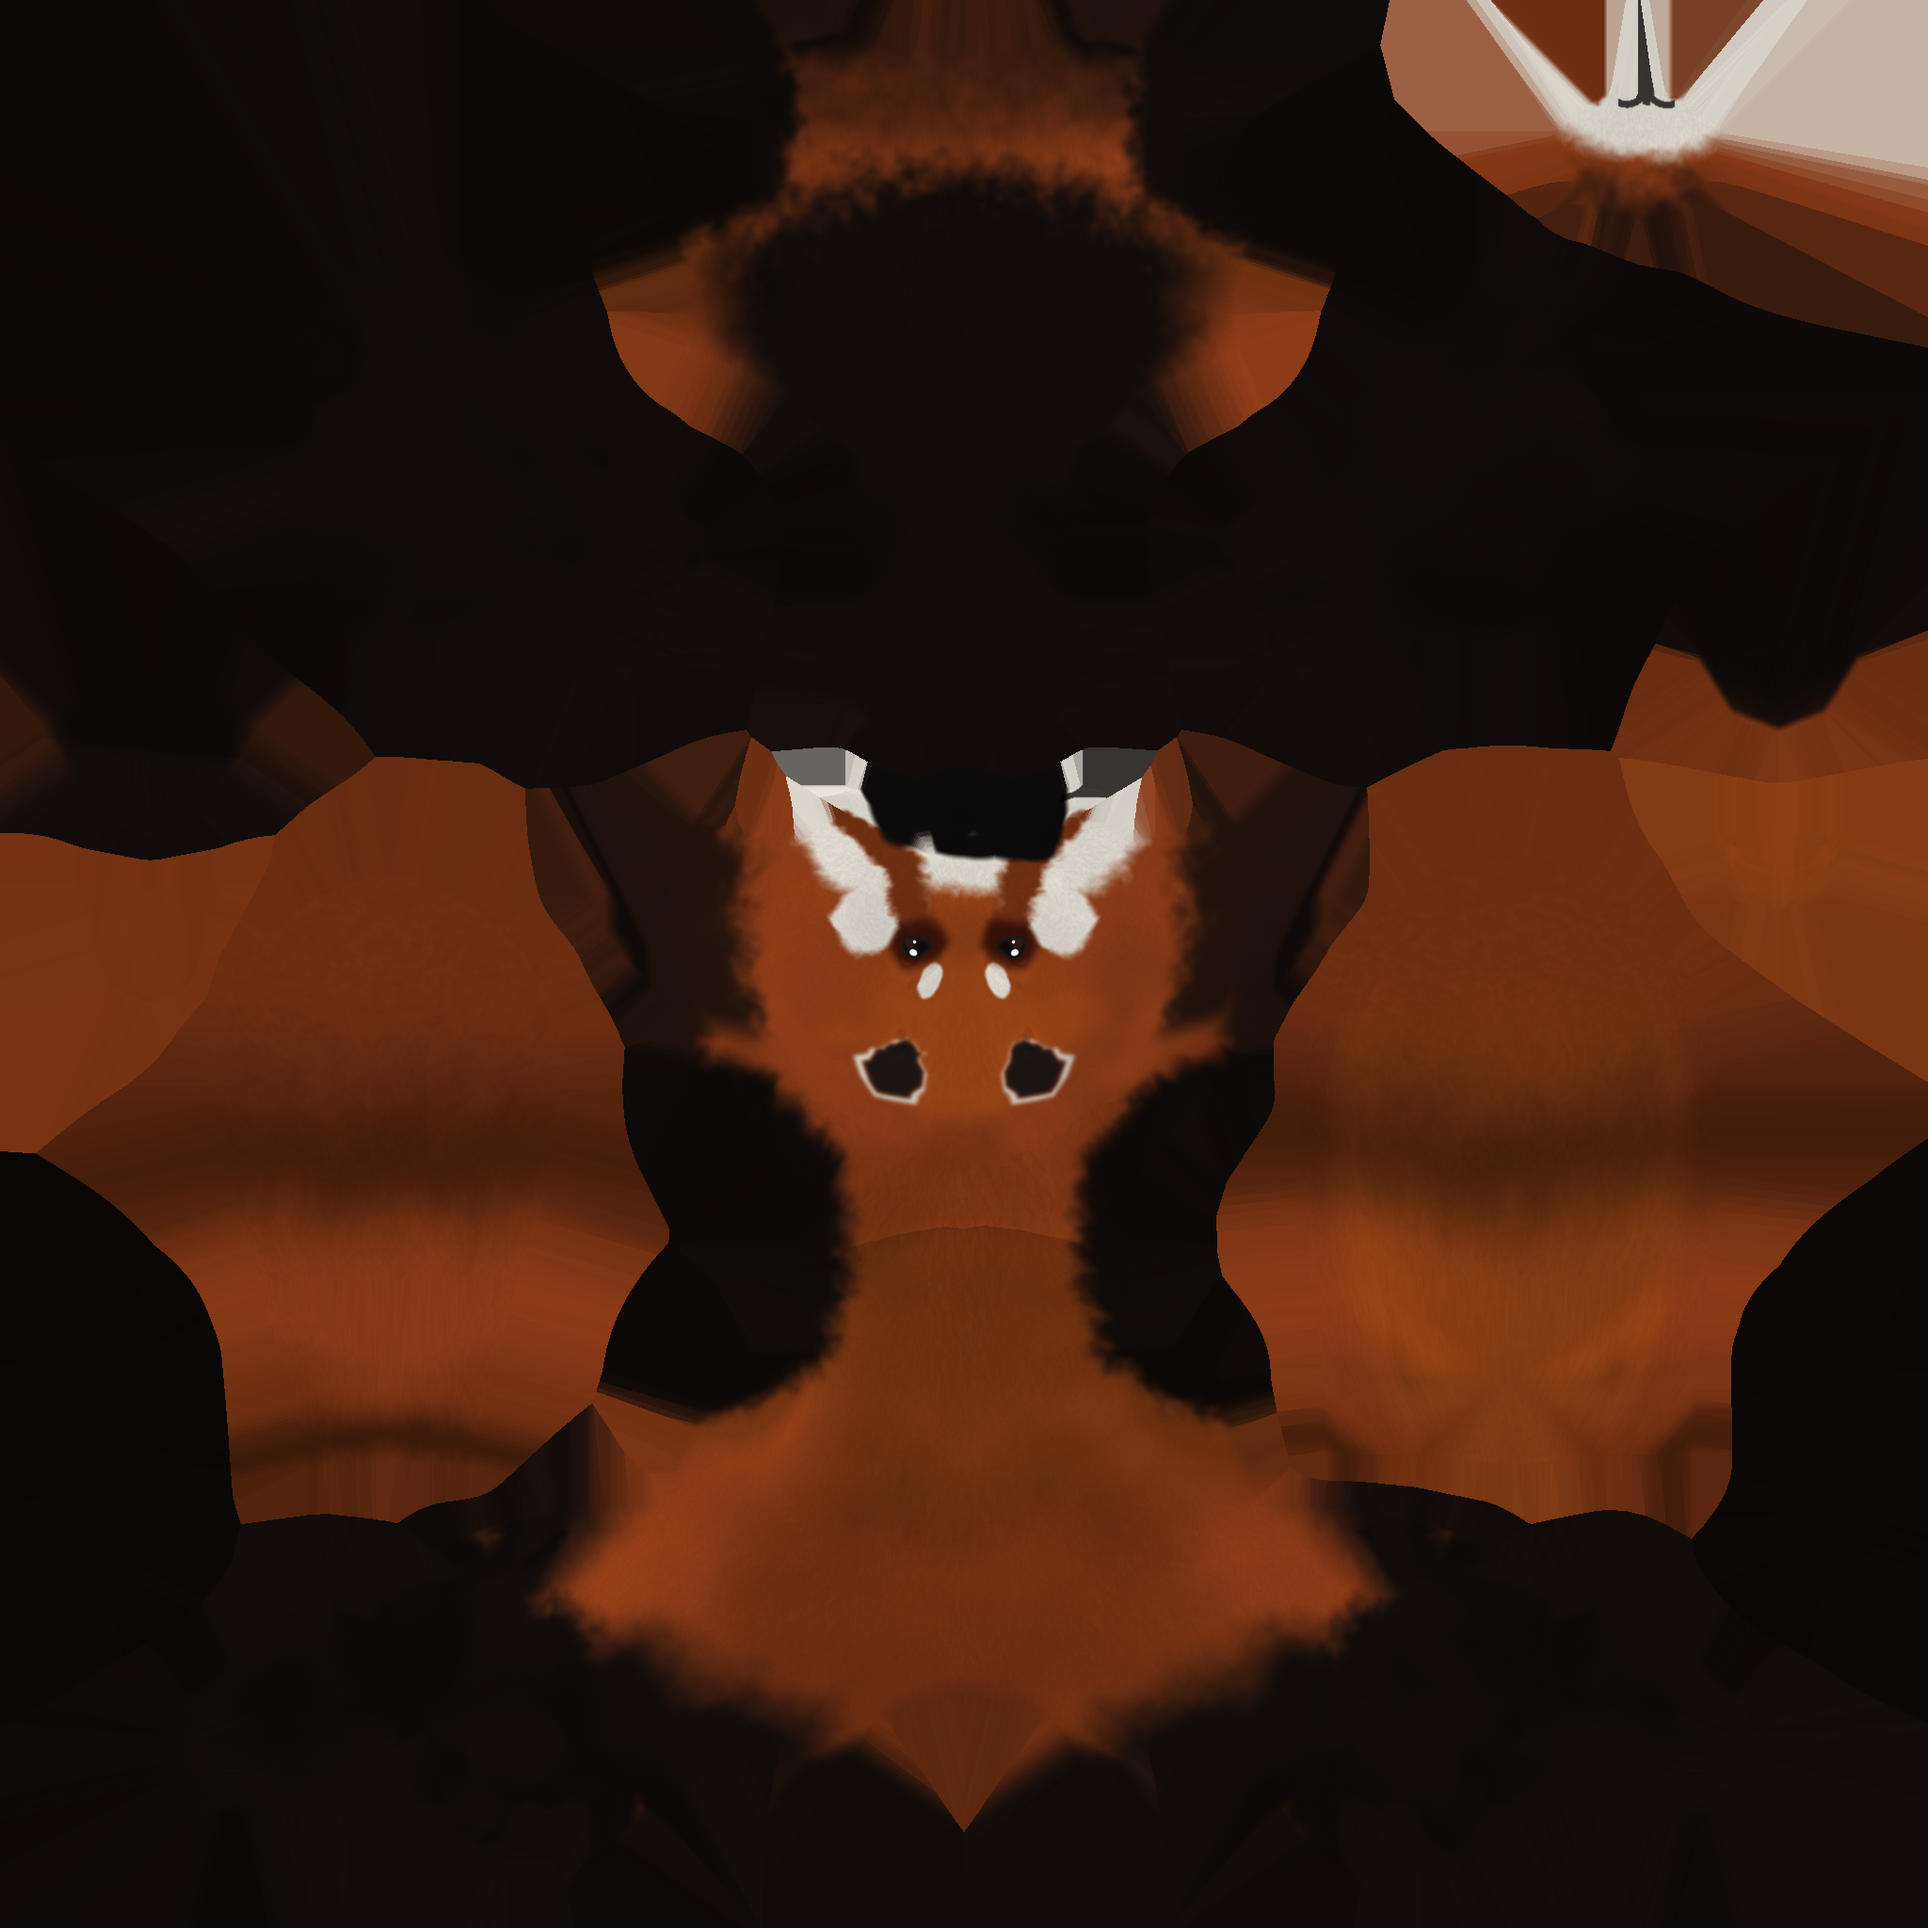
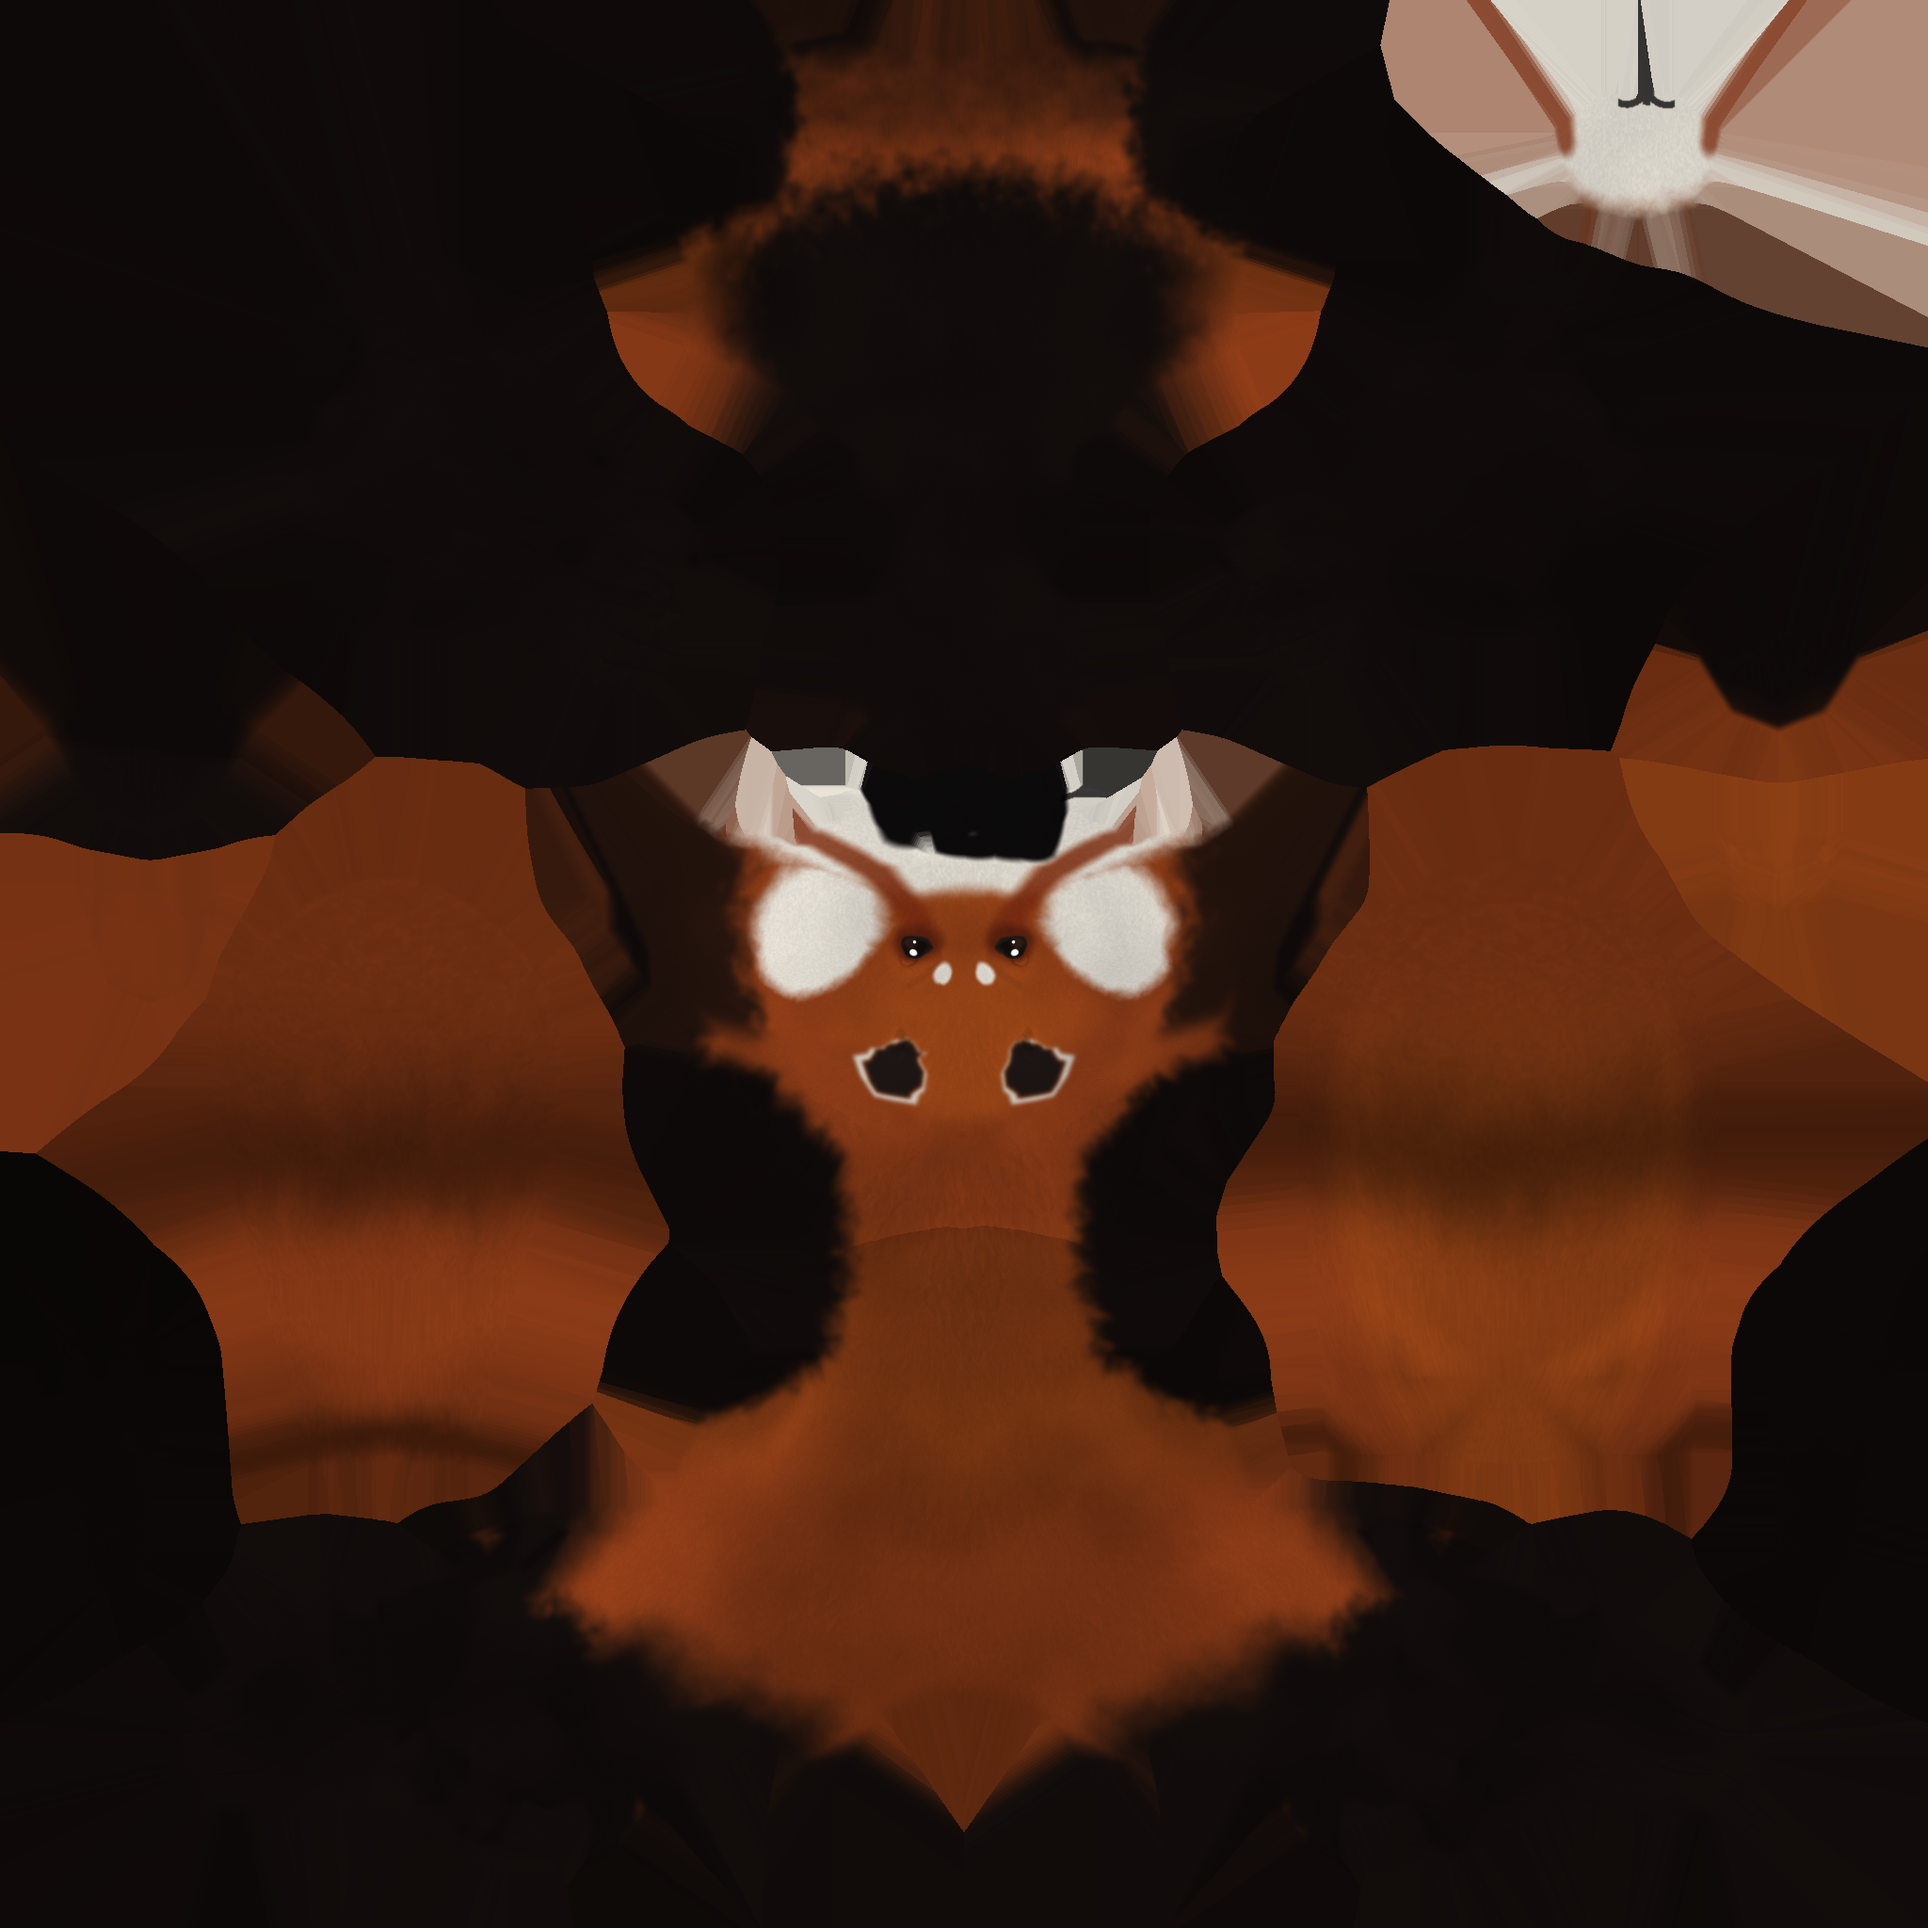
Red pandas: authentic face drawn on the head's surface
Markings are now defined in angles around the head (wrapping the cheeks) instead of a flat front-view
stencil: large white muzzle and cheek mask, red nose bridge, white brow ovals, slanted rust tear tracks
from the inner eye to the mouth corner, and soft mahogany eye rims over the game's eye socket.

Claude-Session: https://claude.ai/code/session_01ELyhwnjUsiunkCYN67p2ae

Changed region(s): [[0.7188, 0.0, 1.0, 0.1875], [0.3438, 0.375, 0.6562, 0.5312]]

diff --git a/src/pipeline/paint.py b/src/pipeline/paint.py
@@ -202,26 +202,45 @@ class Painter:
             return 1 - smoothstep(1 - soft, 1 + soft, d)
 
         s = var.get('face_scale', 1.0)
-        white = ell(nx, ny - 0.010 * s, 0.047 * s, 0.036 * s)                      # muzzle
+        # ---- face markings drawn on the head's surface (angles around the head centre), so they wrap
+        #      around the cheeks instead of being a flat front-view stencil
+        hm = head > 0.5
+        Hp = P[hm]
+        C = np.array([0.0, 0.5 * (Hp[:, 1].min() + Hp[:, 1].max()), 0.5 * (Hp[:, 2].min() + Hp[:, 2].max())])
+
+        def angles(px, py, pz):
+            vx, vy, vz = px - C[0], py - C[1], pz - C[2]
+            rr = np.sqrt(vx * vx + vy * vy + vz * vz) + 1e-9
+            return np.degrees(np.arctan2(np.abs(vx), vz)), np.degrees(np.arcsin(np.clip(vy / rr, -1, 1)))
+        th, ph = angles(x, y, z)
+        the, phe = angles(np.array(ex), np.array(ey), np.array(ez))
+        _, phn = angles(np.array(nx), np.array(ny), np.array(nzc))
+        u = th / max(float(the), 1.0)                         # 0 = centre line, 1 = eye
+        v = (ph - phn) / max(float(phe - phn), 1.0)           # 0 = nose, 1 = eye
+        wob = jag * 10
+        uv_ = var.get('mark', {})
+
+        def blob(cu, cv, ru, rv, soft=0.18):
+            dd = np.sqrt(((u - cu) / ru) ** 2 + ((v - cv) / rv) ** 2) + wob
+            return 1 - smoothstep(1 - soft, 1 + soft, dd)
+
+        onface = (head > 0.5) * smoothstep(-0.4, 0.1, N[..., 2] + 0.6)
+        white = blob(0.0, -0.18, 0.92, 0.70)                            # muzzle: nose, lips, chin top
+        white = white * (1 - smoothstep(0.30, 0.55, v))                 # red bridge of the nose stays red
+        white = np.maximum(white, blob(1.55, -0.02, 0.80, 0.62))        # cheeks, sweeping back towards the ears
+        white = np.maximum(white, blob(0.90, 1.58, 0.36, 0.17, 0.25))   # eyebrow ovals
+        white *= onface
+        # tear tracks: inner corner of the eye down to the corner of the mouth (narrow, dark rufous)
+        a = np.array([0.74, 0.70]); b = np.array([0.56, -0.46])
+        ab = b - a; t = np.clip(((u - a[0]) * ab[0] + (v - a[1]) * ab[1]) / (ab @ ab), 0, 1)
+        dd = np.sqrt((u - a[0] - t * ab[0]) ** 2 + (v - a[1] - t * ab[1]) ** 2)
+        w = 0.20 * (1 - t) + 0.10 * t
+        band = (1 - smoothstep(w * 0.35, w * 1.25, dd + wob * 0.15)) * onface * (1.0 - 0.2 * t)
+        # dark mahogany eye ring (also covers the game's fixed beaver eye-socket relief)
+        tear = np.zeros_like(x)
         for sx in (1, -1):
-            white = np.maximum(white, ell(sx * (ex + 0.013 * s), ey - 0.031 * s, 0.026 * s, 0.022 * s))   # cheeks
-            white = np.maximum(white, ell(sx * ex * 0.55, ny - 0.006 * s, 0.030 * s, 0.026 * s))         # joins cheeks to muzzle
-            white = np.maximum(white, ell(sx * (ex + 0.002 * s), ey + 0.024 * s, 0.012 * s, 0.009 * s))   # brows
-        white *= fz * front
-        # authentic red-panda eye ring + tear line: soft mahogany around the eye (also covers the game's fixed
-        # beaver eye-socket relief), tapering down to the corner of the mouth
-        tear = np.zeros_like(x); band = np.zeros_like(x)
-        for sx in (1, -1):
-            ring = ell(sx * ex, ey - 0.0015 * s, var.get('ring_rx', 0.0125) * s, var.get('ring_ry', 0.0110) * s, 0.35)
-            a = np.array([sx * (ex - 0.0015 * s), ey - 0.008 * s]); b = np.array([sx * (abs(nx) + 0.014 * s), ny - 0.017 * s])
-            ab = b - a; t = np.clip(((x - a[0]) * ab[0] + (y - a[1]) * ab[1]) / (ab @ ab), 0, 1)
-            d = np.sqrt((x - a[0] - t * ab[0]) ** 2 + (y - a[1] - t * ab[1]) ** 2)
-            w = s * (0.0105 * (1 - t) + 0.0055 * t)
-            line = 1 - smoothstep(w * 0.5, w * 1.25, d + jag * 0.6)
-            tear = np.maximum(tear, ring)
-            band = np.maximum(band, line)
-        tear *= fz * front * var.get('tear_strength', 0.95)
-        band *= fz * front
+            tear = np.maximum(tear, ell(sx * ex, ey - 0.0015 * s, var.get('ring_rx', 0.0125) * s, var.get('ring_ry', 0.0110) * s, 0.35))
+        tear *= fz * front * var.get('tear_strength', 0.85)
         white = white * (1 - np.maximum(tear, band))
         # dark throat/bib, belly, legs, arms
         darm = r['darm'][..., 0]
@@ -260,8 +279,8 @@ class Painter:
             a = ndimage.gaussian_filter(a, k)[..., None]
             return col * (1 - a) + c * a
         col = over(dark * (1 + 0.1 * tone), rm['dark'], 2.5)
-        col = over(red * 0.82, rm['band'], 1.5)                    # rusty band between cheek and muzzle
-        col = over(np.array(var.get('tear_col', (0.20, 0.055, 0.03))), rm['tear'], 2.0)
+        col = over(np.array(var.get('track_col', (0.47, 0.17, 0.065))), rm['band'], 2.5)   # tear tracks: soft rust
+        col = over(np.array(var.get('tear_col', (0.30, 0.095, 0.045))), rm['tear'], 2.5)
         col = over(white * (1 + 0.03 * tone), rm['white'])
         col = over(white * 0.95, rm['ear_rim'], 2.0)
         col = over(dark * 1.3 + 0.02, rm['ear_in'], 2.0)

diff --git a/src/pipeline/make_red_textures.py b/src/pipeline/make_red_textures.py
@@ -64,10 +64,10 @@ if which == 'CHILD_V3':
     CUTE = dict(CUTE, eye_dy=0.0, eye_r=0.0165, hi_r=0.0050, patch_a=0.034, patch_b=0.031, patch_dy=-0.002, patch_dx=0.001)
 if V2:
     style = CUTE if kind == 'child' else REAL
-    RED = [dict(dict(v, **style), blush=0.25 if kind == 'child' else 0, ring_rx=0.025 if kind == 'child' else 0.0175, ring_ry=0.023 if kind == 'child' else 0.0155) for v in RED]
+    RED = [dict(dict(v, **style), blush=0.25 if kind == 'child' else 0, ring_rx=0.0215 if kind == 'child' else 0.0140, ring_ry=0.0200 if kind == 'child' else 0.0125) for v in RED]
     if kind == 'adult':
         # bigger, glossier eyes than the giant-panda adults: red pandas read as cute, not stern
-        RED = [dict(v, eye_r=0.0080, eye_rim_w=0.0014, hi_r=0.0026, ring_rx=0.0175, ring_ry=0.0155, sparkle2=True, eye_squash=1.0,
+        RED = [dict(v, eye_r=0.0080, eye_rim_w=0.0014, hi_r=0.0026, ring_rx=0.0140, ring_ry=0.0125, sparkle2=True, eye_squash=1.0,
                     iris=(0.07, 0.045, 0.035), iris_low=(0.10, 0.06, 0.04)) for v in RED]
 os.makedirs(outdir, exist_ok=True)
 for v in RED:
